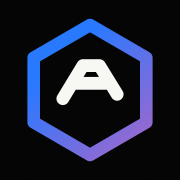
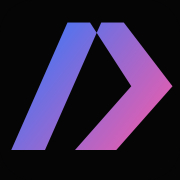
feat(web): sharpen AgentPay forward rail mark

diff --git a/apps/web/tests/brand-assets.test.tsx b/apps/web/tests/brand-assets.test.tsx
@@ -4,10 +4,7 @@ import { render } from "@testing-library/react";
 import { describe, expect, it } from "vitest";
 import { metadata } from "@/app/layout";
 import manifest from "@/app/manifest";
-import {
-  AGENTPAY_SYMBOL_FRAME_PATH,
-  AGENTPAY_SYMBOL_LETTER_PATH,
-} from "@/components/site/brand-symbol";
+import { AGENTPAY_SYMBOL_PATH } from "@/components/site/brand-symbol";
 import { BrandMark } from "@/components/site/brand-mark";
 
 const BRAND_ASSET_DIRECTORY = path.resolve(process.cwd(), "public/brand");
@@ -29,14 +26,12 @@ describe("AgentPay brand assets", () => {
 
     expect(container.querySelector("svg")).toHaveAttribute(
       "viewBox",
-      "0 0 40 40",
+      "0 0 48 48",
     );
     expect(
-      container.querySelector(`path[d="${AGENTPAY_SYMBOL_FRAME_PATH}"]`),
+      container.querySelector(`path[d="${AGENTPAY_SYMBOL_PATH}"]`),
     ).toBeInTheDocument();
-    expect(
-      container.querySelector(`path[d="${AGENTPAY_SYMBOL_LETTER_PATH}"]`),
-    ).toBeInTheDocument();
+    expect(container.querySelectorAll("path")).toHaveLength(1);
   });
 
   it("ships a text-free vector master and correctly sized app icons", () => {
@@ -53,18 +48,21 @@ describe("AgentPay brand assets", () => {
       "utf8",
     );
 
-    expect(symbolSource).toContain(AGENTPAY_SYMBOL_FRAME_PATH);
-    expect(symbolSource).toContain(AGENTPAY_SYMBOL_LETTER_PATH);
-    expect(symbolSource).toContain('stroke="currentColor"');
+    expect(symbolSource).toContain(AGENTPAY_SYMBOL_PATH);
+    expect(symbolSource).toContain('fill="currentColor"');
+    expect(symbolSource).toContain('fill-rule="evenodd"');
+    expect(symbolSource).not.toContain(
+      "M20 3.5 34.3 11.8v16.4L20 36.5 5.7 28.2V11.8L20 3.5Z",
+    );
     expect(symbolSource).not.toContain("linearGradient");
     expect(symbolSource).not.toMatch(/<text\b/i);
-    expect(iconSource).toContain(AGENTPAY_SYMBOL_FRAME_PATH);
-    expect(iconSource).toContain(AGENTPAY_SYMBOL_LETTER_PATH);
+    expect(iconSource).toContain(AGENTPAY_SYMBOL_PATH);
     expect(iconSource).toContain("#2979ff");
     expect(iconSource).toContain("#ff5aa5");
     expect(iconSource).not.toContain("#ff6d00");
     expect(iconSource).not.toMatch(/<text\b/i);
     expect(faviconSource).toContain("#f7f7f4");
+    expect(faviconSource).toContain(AGENTPAY_SYMBOL_PATH);
     expect(faviconSource).not.toContain("linearGradient");
     expect(faviconSource).not.toContain("#2979ff");
     expect(faviconSource).not.toContain("#ff5aa5");

diff --git a/apps/web/components/site/brand-symbol.tsx b/apps/web/components/site/brand-symbol.tsx
@@ -1,7 +1,5 @@
-export const AGENTPAY_SYMBOL_FRAME_PATH =
-  "M20 3.5 34.3 11.8v16.4L20 36.5 5.7 28.2V11.8L20 3.5Z";
-export const AGENTPAY_SYMBOL_LETTER_PATH =
-  "m13.1 22.2 5.1-8.4h4.2l4.5 7.3M15.6 18.3h8.8";
+export const AGENTPAY_SYMBOL_PATH =
+  "M3 40 18 6h9L12 40H3ZM24 6h9l13 17-15 17H20l15-17L24 6Z";
 
 type BrandSymbolProps = {
   className?: string;
@@ -10,14 +8,12 @@ type BrandSymbolProps = {
 // BrandSymbol is the shared vector geometry used by the product lockup and app icons.
 export function BrandSymbol({ className = "brand-symbol" }: BrandSymbolProps) {
   return (
-    <svg viewBox="0 0 40 40" className={className} aria-hidden="true">
+    <svg viewBox="0 0 48 48" className={className} aria-hidden="true">
       <path
-        className="brand-symbol-frame"
-        d={AGENTPAY_SYMBOL_FRAME_PATH}
-      />
-      <path
-        className="brand-symbol-letter"
-        d={AGENTPAY_SYMBOL_LETTER_PATH}
+        d={AGENTPAY_SYMBOL_PATH}
+        fill="currentColor"
+        fillRule="evenodd"
+        clipRule="evenodd"
       />
     </svg>
   );
